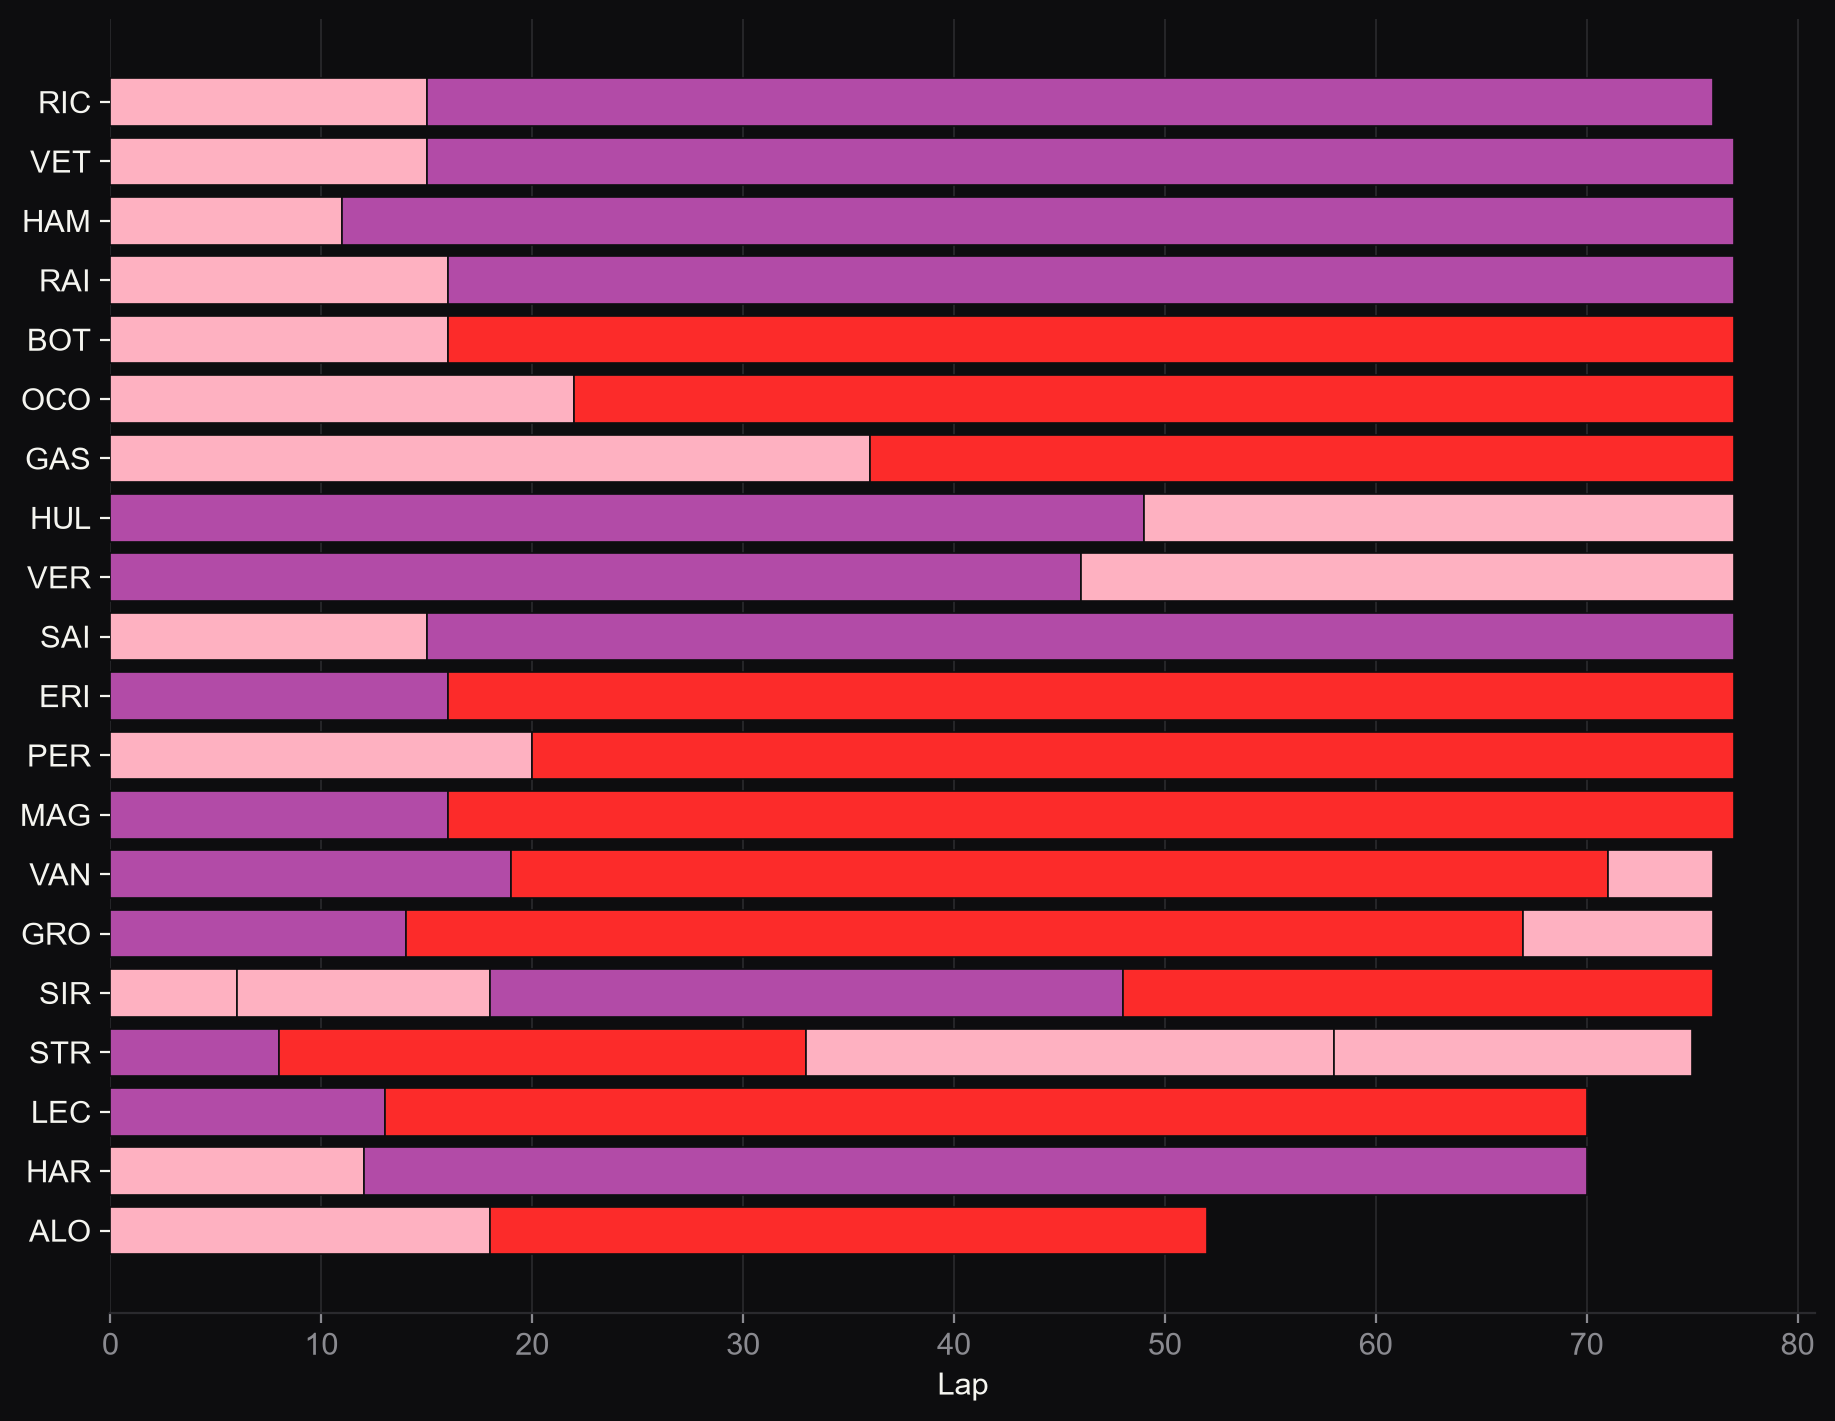
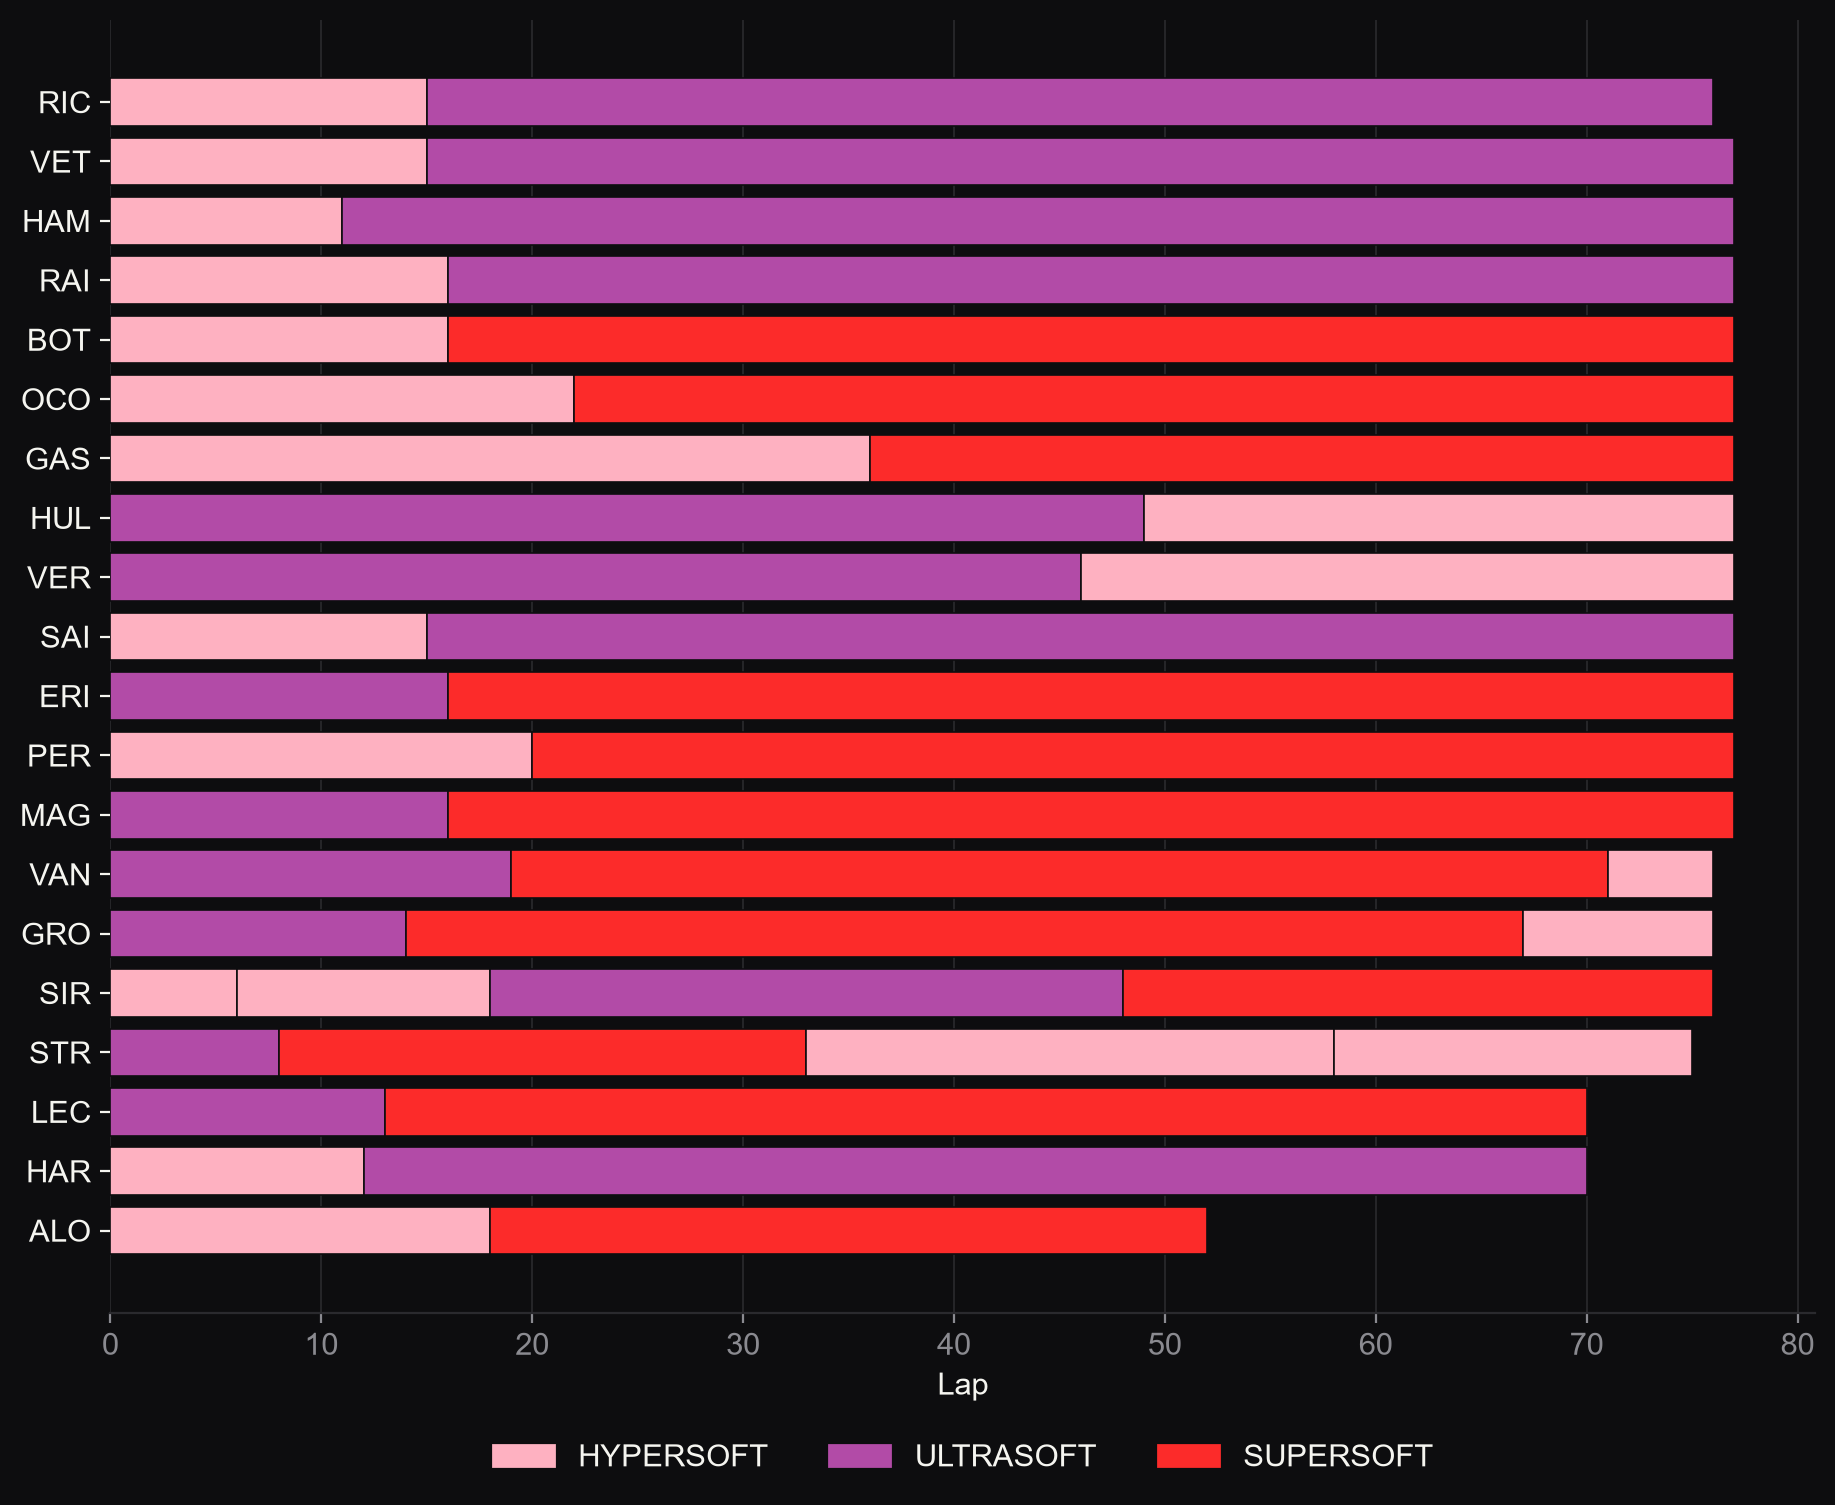
Fix strategy-chart legend dropping historical tyre compounds
COMPOUND_ORDER only listed the 2022+ names (soft/medium/hard/
intermediate/wet), so any 2018-2021 race using hyper/ultra/supersoft
got a correctly-colored bar with no matching legend entry -- the
purple/pink/red compounds looked unlabeled. Replaced the hardcoded
tuple with fastf1.plotting.list_compounds(session), which is
era-aware and always matches what a given season actually raced.

Regenerated all 58 cached pre-2022 strategy charts; 19 actually
changed (used a non-standard compound), the other 39 are
byte-identical since they only ever ran soft/medium/hard.

diff --git a/src/plots.py b/src/plots.py
@@ -44,7 +44,6 @@ logger = logging.getLogger(__name__)
 
 DPI = 200
 PLOT_NAMES = ("track_map", "speed_traces", "strategy", "position_changes")
-COMPOUND_ORDER = ("SOFT", "MEDIUM", "HARD", "INTERMEDIATE", "WET")
 
 
 def _image_path(year: int, round_number: int, name: str) -> Path:
@@ -242,11 +241,17 @@ def plot_strategy(session, path: Path) -> None:
             )
             previous_stint_end += row["StintLength"]
 
-    # Only real compounds belong in the legend — an anomalous "NONE" entry
-    # would read as a mystery fifth tyre choice rather than what it is.
+    # Only real compounds belong in the legend — an anomalous "NONE"/NaN
+    # entry would read as a mystery tyre choice rather than what it is.
+    # list_compounds() is era-aware: 2018-2021 raced a 5-tier dry lineup
+    # (hyper/ultra/super/soft/medium/hard) rather than 2022+'s soft/medium/
+    # hard, so this can't be a fixed constant without silently dropping
+    # legitimate historical compounds from the legend — they'd still get
+    # a correct bar color from _compound_color, just no legend entry.
+    known_compounds = fastf1.plotting.list_compounds(session)
     compounds_used = sorted(
-        (c for c in stints["Compound"].unique() if c in COMPOUND_ORDER),
-        key=COMPOUND_ORDER.index,
+        (c for c in stints["Compound"].unique() if c in known_compounds),
+        key=known_compounds.index,
     )
     if compounds_used:
         # matplotlib's legend() rejects ncol=0 outright — if a whole race's
